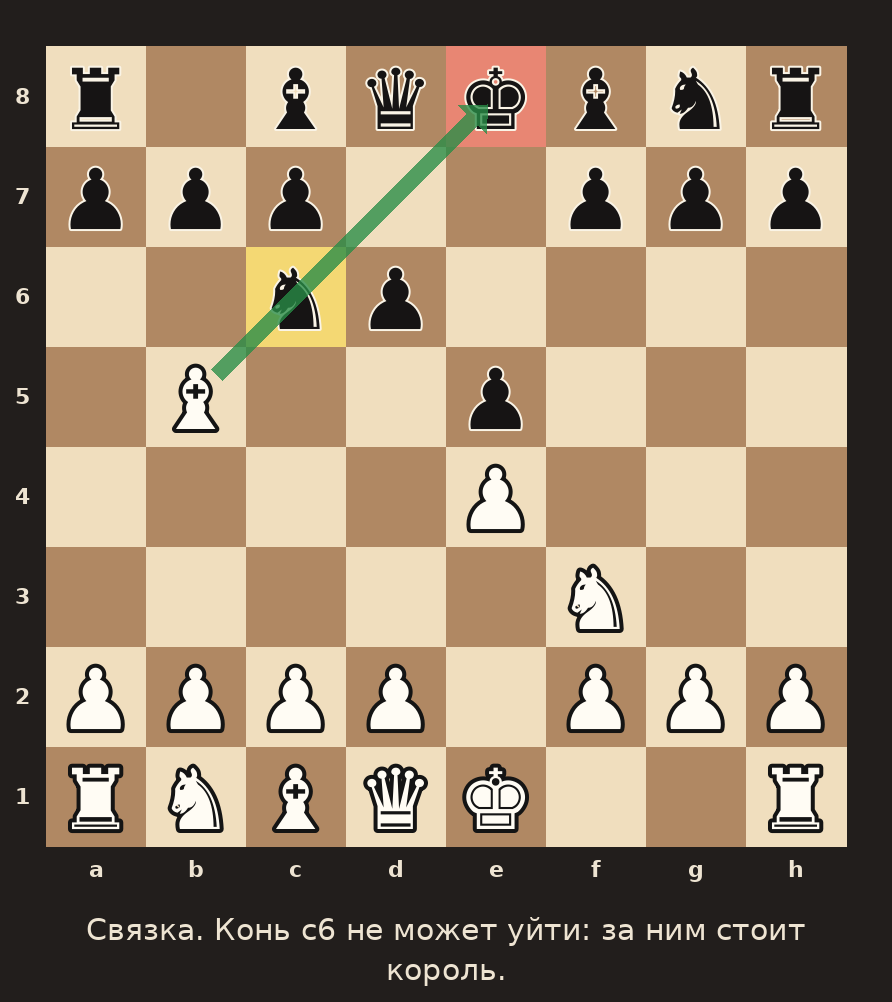
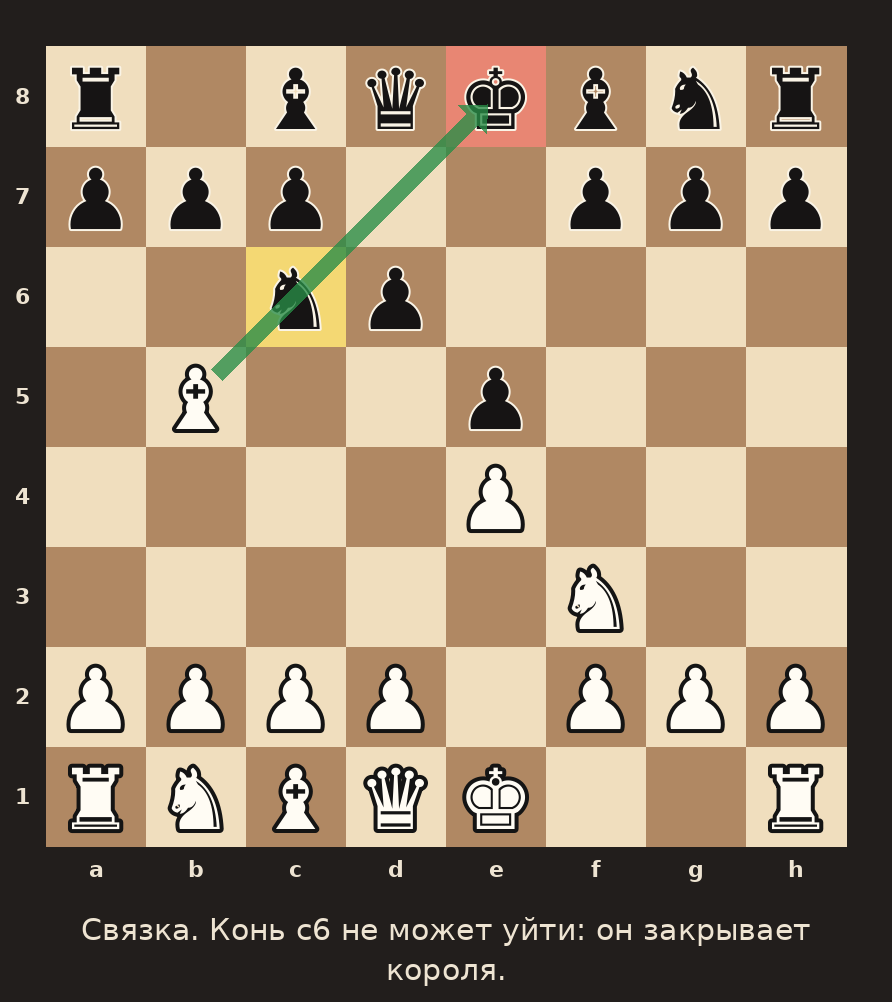
Стратег, главы 2–4: правки Веры, новая подпись к диаграмме связки
Claude-Session: https://claude.ai/code/session_01TiYkxzXCruZLP7AYUq31b2

Changed region(s): [[0.0908, 0.8972, 0.9081, 0.99]]

diff --git a/novels/strateg/03.md b/novels/strateg/03.md
@@ -6,7 +6,7 @@
 
 ![](novels/strateg/img/03.jpg)
 
-— Мам, я к Луке, — сказал Мигель в шесть сорок пять. — Мы уроки вместе делаем.
+— Мам, я к Луке, — сказал Мигель в шесть сорок пять. — Мы уроки вместе будем делать.
 
 — По шахматам? — спросила мама.
 
@@ -20,11 +20,11 @@
 
 — Любой, — сказала Алисия и улыбнулась. — Ключи всегда надо класть, как лежали. Это просто совет.
 
-Марк в это время спорил с мамой о том, сколько минут надо жарить дораду, и ничего не услышал.
+Марк в это время спорил с мамой о том, сколько минут надо жарить дораду, и этого разговора не слышал.
 
 ***
 
-Квартира у железной дороги была маленькая и вся пахла Марком: мате, старыми газетами и одеколоном, который ему подарила Алисия и который он ненавидел, но носил. На стене висела карта Синеи, утыканная булавками. На полке — лупы разных размеров. На подоконнике — фотография: Марк и Алисия на вокзале, оба смеются, а за ними в дымке виден какой-то странный старый поезд, которого на настоящем вокзале Синеи никогда не было.
+Квартира у железной дороги была маленькая и вся пахла Марком: мате, старыми газетами и одеколоном, который ему подарила Алисия: Марк его ненавидел, но всё равно им душился. На стене висела карта Синеи, утыканная булавками. На полке — лупы разных размеров. На подоконнике — фотография: Марк и Алисия на вокзале, оба смеются, а за ними в дымке виден какой-то странный старый поезд, которого на настоящем вокзале Синеи никогда не было.
 
 Мигель открыл нижний ящик стола.
 
@@ -42,7 +42,7 @@
 
 ***
 
-Дома он слушал до полуночи.
+Дома он слушал рацию до полуночи.
 
 Сначала было только шипение. Потом голоса — короткие, усталые, без лишних слов. «Седьмой, ответьте». «Седьмой на связи». «На Портовой драка, двое, без оружия». «Принял». «Кто-нибудь знает, где заправка на Восточном?» «Это не рабочий вопрос, Риццо». «Для меня рабочий, у меня бензин кончается».
 

diff --git a/novels/strateg/04.md b/novels/strateg/04.md
@@ -66,7 +66,7 @@
 
 — Ваше, наверно. Валялось.
 
-Мигель не стал смотреть, как Риццо разворачивает записку. Он ушёл, не оборачиваясь, как уходят из комнаты, где только что сделал очень сильный ход и боишься, что противник заметит у тебя на лице.
+Мигель не стал смотреть, как Риццо разворачивает записку. Он ушёл, не оборачиваясь, как уходят из комнаты, где только что сделал очень сильный ход и боишься, что противник заметит это у тебя на лице.
 
 ***
 
